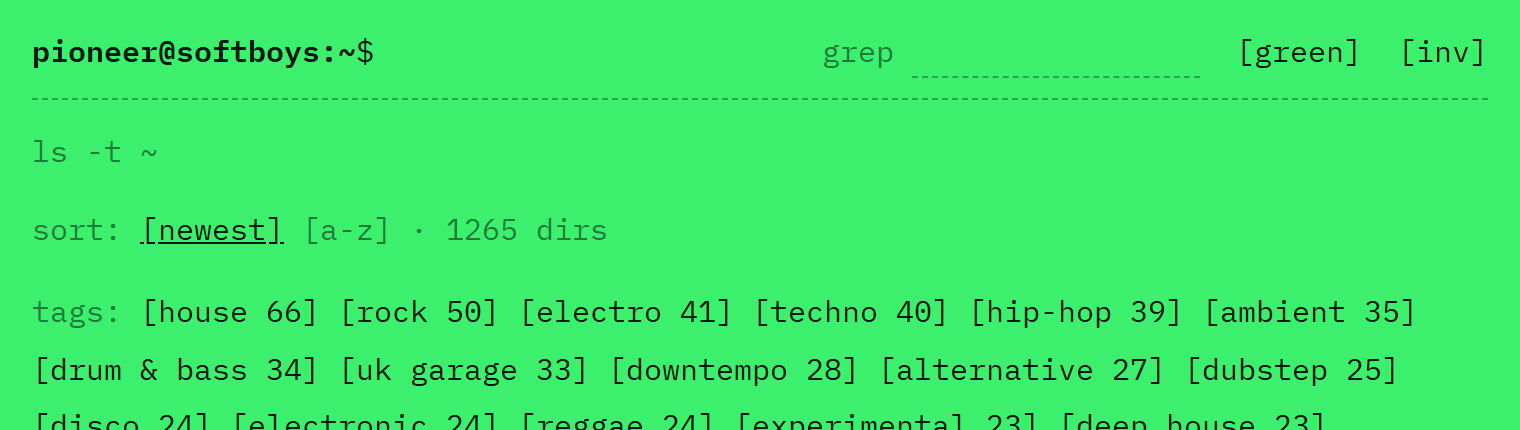
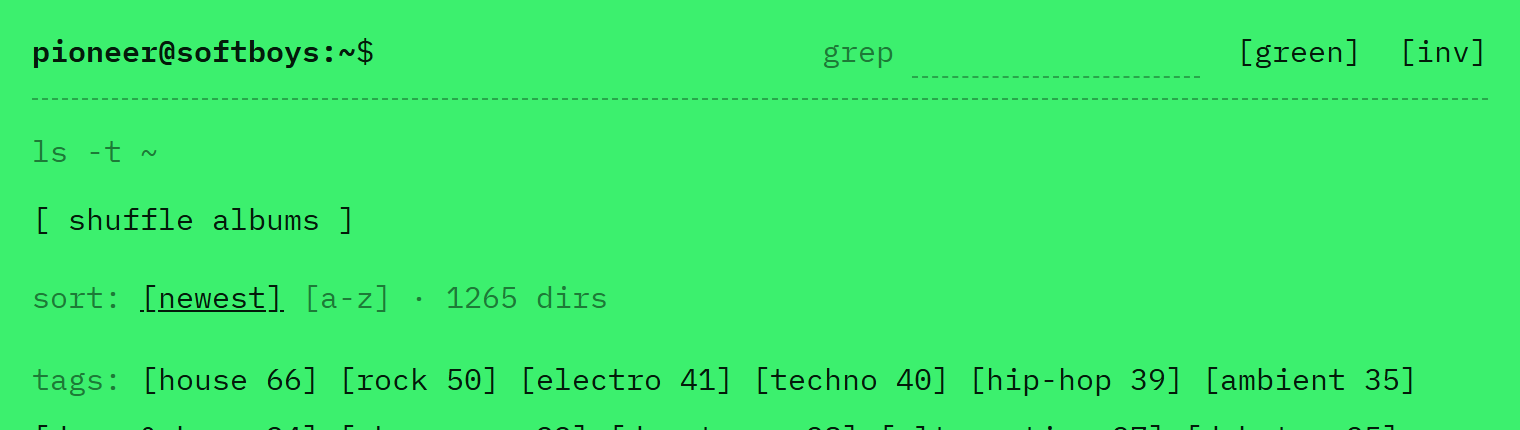
Show the archive in jelly on the jelly theme's portal
Pioneer has a jelly theme now. All four portal pictures are re-rendered, since
the archive gained a shuffle albums line.

diff --git a/src/Components/Header.component.jsx b/src/Components/Header.component.jsx
@@ -6,9 +6,10 @@ import { MdMoreHoriz } from 'react-icons/md'
 import portalGreen from '../Images/portal-green.png';
 import portalWalnut from '../Images/portal-walnut.png';
 import portalShore from '../Images/portal-shore.png';
+import portalJelly from '../Images/portal-jelly.png';
 
-// the archive has no classic or jelly theme of its own; those show it in its usual green
-const PORTALS = { walnut: portalWalnut, shore: portalShore };
+// the archive has no classic theme of its own; classic shows it in its usual green
+const PORTALS = { walnut: portalWalnut, shore: portalShore, jelly: portalJelly };
 
 const Header = ({ theme }) => {
   return (
